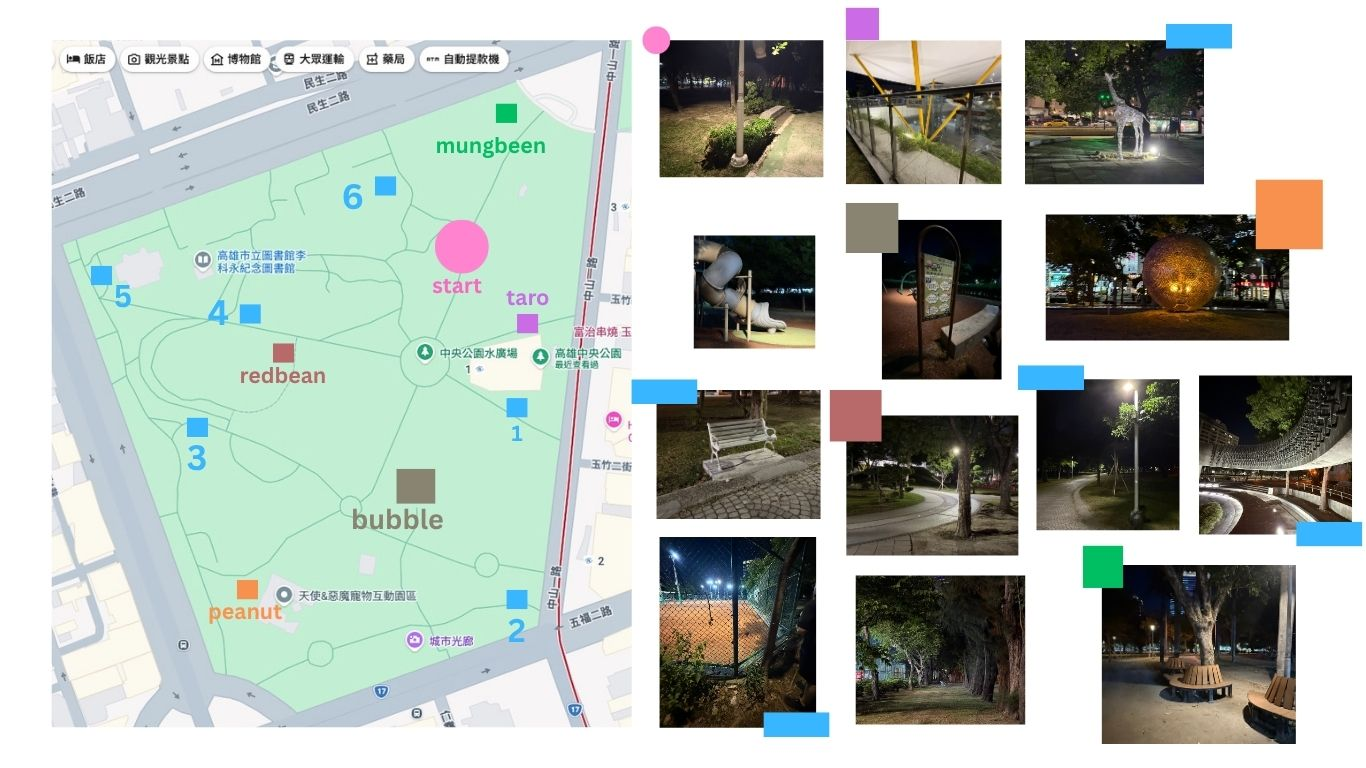
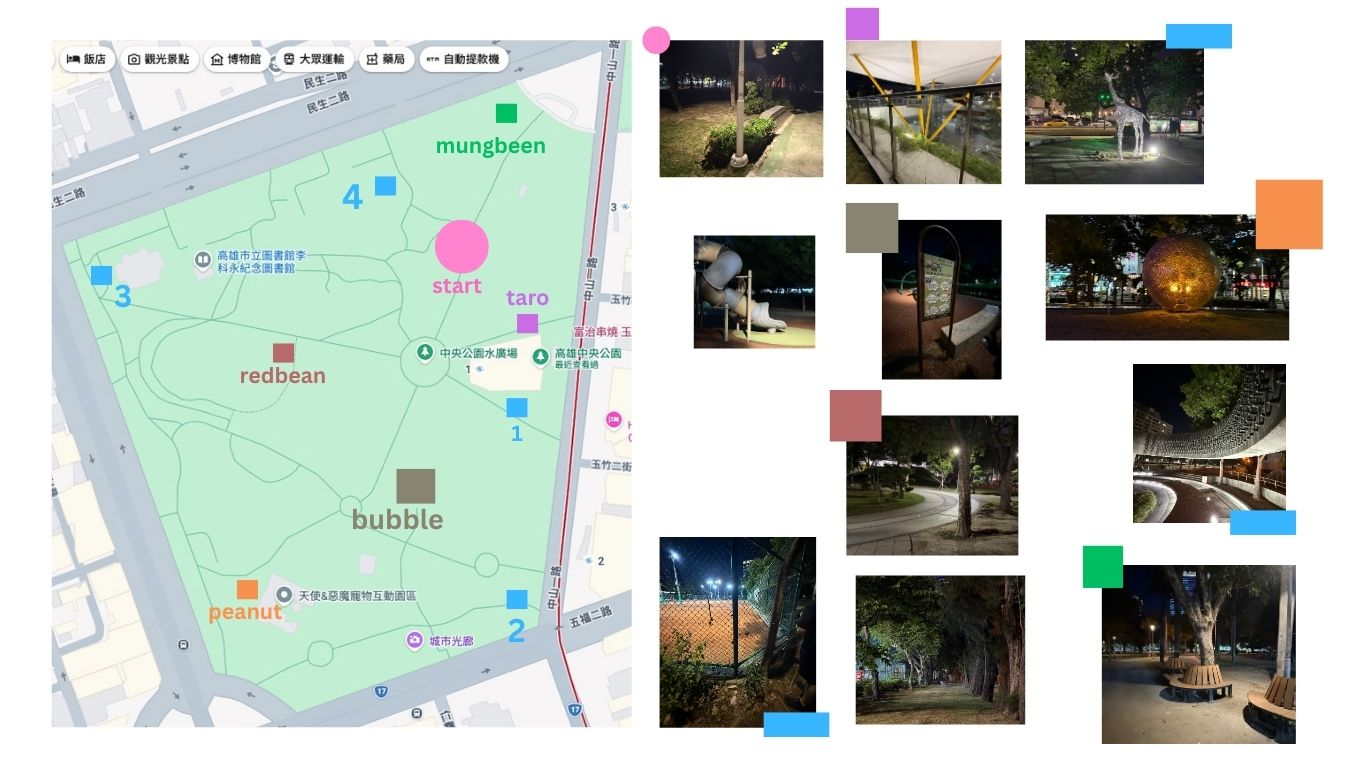
refactor: 白豆花改 4 站，集滿 4 站換 1 顆豆花
移除原 03/04 站點；新 03/04 沿用原 05/06 座標。兌換規則與
LIVE 進度／湯匙改為 4 格；更新 QR、地圖與文案。

diff --git a/src/i18n/messages/zh.ts b/src/i18n/messages/zh.ts
@@ -35,7 +35,7 @@ export const zh = {
     tagline: "一起完成屬於你的一碗豆花。",
     location: "Tofu Run · 高雄中央公園",
     taglineEn: "When the Tofu Pudding is Running ...",
-    closedBeta: "遊戲封測\n{ ~ 豆友試跑 05/28/2026 星期四 7:30 - 8:30 ~ }",
+    closedBeta: "{ ~ 豆友 2nd 試跑 06/05/2026 星期五 7:00 - 8:00 ~ }",
     closedBetaMeetupPrefix: "集合地: ",
     closedBetaMeetupPlaceBefore: "中央公園",
     closedBetaMeetupPlaceExitNo: "1",
@@ -119,8 +119,6 @@ export const zh = {
     "tofu-02": { label: "白豆花 Token 02", zone: "純白豆花底" },
     "tofu-03": { label: "白豆花 Token 03", zone: "純白豆花底" },
     "tofu-04": { label: "白豆花 Token 04", zone: "純白豆花底" },
-    "tofu-05": { label: "白豆花 Token 05", zone: "純白豆花底" },
-    "tofu-06": { label: "白豆花 Token 06", zone: "純白豆花底" },
     redbean: { label: "紅豆 Token", zone: "水池區" },
     mungbean: { label: "綠豆 Token", zone: "樹林區" },
     peanut: { label: "花生 Token", zone: "城市光廊區" },
@@ -160,7 +158,7 @@ export const zh = {
     listCount: "共 {count} 人",
     empty: "還沒有人報名，成為第一碗豆花吧 🥣",
     dateTbd:
-      "開跑日期稍候公佈...\n{ ~ 豆友試跑 05/28/2026 星期四 7:30 - 8:30 ~ }",
+      "開跑日期稍候公佈...\n{ ~ 豆友 2nd 試跑 06/05/2026 星期五 7:00 - 8:00 ~ }",
     logout: "登出護照",
     myPassport: "我的豆花護照",
   },
@@ -222,7 +220,7 @@ export const zh = {
     participants: "進場的人",
     tokenProgress: "Token 進度",
     scanToken: "掃描",
-    scanHint: "對準檢查點 QR（白豆花 tofu-01～06 或配料）",
+    scanHint: "對準檢查點 QR（白豆花 tofu-01～04 或配料）",
     scanClose: "關閉",
     scanInvalidQr: "無法辨識此 QR Code，請對準檢查點",
     scanCameraDenied: "無法開啟相機，請允許相機權限後再試",

diff --git a/src/i18n/messages/en.ts b/src/i18n/messages/en.ts
@@ -38,7 +38,7 @@ export const en: Messages = {
     location: "Tofu Run · Kaohsiung Central Park",
     taglineEn: "When the Tofu Pudding is Running ...",
     closedBeta:
-      "Closed beta\n{ ~ Tofu friends trial run · Thu 5/28/2026 · 7:30–8:30 PM ~ }",
+      "{ ~ Tofu friends 2nd trial run · Fri 6/5/2026 · 7:00–8:00 PM ~ }",
     closedBetaMeetupPrefix: "Meet at: ",
     closedBetaMeetupPlaceBefore: "Central Park Exit ",
     closedBetaMeetupPlaceExitNo: "1",
@@ -127,8 +127,6 @@ export const en: Messages = {
     "tofu-02": { label: "White tofu Token 02", zone: "Plain white tofu base" },
     "tofu-03": { label: "White tofu Token 03", zone: "Plain white tofu base" },
     "tofu-04": { label: "White tofu Token 04", zone: "Plain white tofu base" },
-    "tofu-05": { label: "White tofu Token 05", zone: "Plain white tofu base" },
-    "tofu-06": { label: "White tofu Token 06", zone: "Plain white tofu base" },
     redbean: { label: "Red bean Token", zone: "Pond area" },
     mungbean: { label: "Mung bean Token", zone: "Grove area" },
     peanut: { label: "Peanut Token", zone: "City arcade" },
@@ -169,7 +167,7 @@ export const en: Messages = {
     listCount: "{count} people",
     empty: "No signups yet — be the first bowl 🥣",
     dateTbd:
-      "Run date TBA…\n{ ~ Tofu friends trial run · Thu 5/28/2026 · 7:30–8:30 PM ~ }",
+      "Run date TBA…\n{ ~ Tofu friends 2nd trial run · Fri 6/5/2026 · 7:00–8:00 PM ~ }",
     logout: "Sign out",
     myPassport: "My tofu passport",
   },
@@ -233,7 +231,7 @@ export const en: Messages = {
     tokenProgress: "Token progress",
     scanToken: "Scan",
     scanHint:
-      "Point at a checkpoint QR (white tofu tofu-01…06 or toppings)",
+      "Point at a checkpoint QR (white tofu tofu-01…04 or toppings)",
     scanClose: "Close",
     scanInvalidQr: "Unrecognized QR — use a checkpoint code",
     scanCameraDenied: "Camera blocked — allow camera access and retry",

diff --git a/src/components/LiveParticipantTokenIcons.tsx b/src/components/LiveParticipantTokenIcons.tsx
@@ -123,7 +123,7 @@ function TokenIconCell({
   );
 }
 
-/** LIVE 名單：豆花圖示 + 六格進度（放在 goal 下方） */
+/** LIVE 名單：豆花進度格（站數 = TOFU_PROGRESS_COUNT，集滿一輪換 1 顆豆花） */
 export function LiveTofuProgressRow({
   tokenIds,
   className = "",
@@ -138,7 +138,12 @@ export function LiveTofuProgressRow({
       className={`flex min-w-0 items-center gap-1.5 overflow-visible ${className}`.trim()}
       aria-label="豆花進度"
     >
-      <div className="grid w-full max-w-[5.5rem] shrink-0 grid-cols-6 gap-px">
+      <div
+        className="grid w-full max-w-[4rem] shrink-0 gap-px"
+        style={{
+          gridTemplateColumns: `repeat(${TOFU_PROGRESS_COUNT}, minmax(0, 1fr))`,
+        }}
+      >
         {Array.from({ length: TOFU_PROGRESS_COUNT }, (_, i) => (
           <span
             key={i}
@@ -202,7 +207,10 @@ export function LiveParticipantTokenIcons({
               count={completedTofu}
             />
           ) : currentRoundStations > 0 ? (
-            <div className="flex flex-col items-center justify-center gap-0.5">
+            <div
+              className="flex flex-col items-center justify-center gap-0.5"
+              title={`本輪豆花進度 ${currentRoundStations}/${TOFU_PROGRESS_COUNT}`}
+            >
               <div className="flex h-8 w-11 items-center justify-center">
                 <TokenIcon
                   src="/spoon-64px.png"

diff --git a/public/checkpoint-qr.html b/public/checkpoint-qr.html
@@ -112,9 +112,9 @@
 </head>
 <body>
   <div class="no-print">
-    <h1>Checkpoint QR Code（起點 + 白豆花 6 站 + 5 配料）</h1>
+    <h1>Checkpoint QR Code（起點 + 白豆花 4 站 + 5 配料）</h1>
     <p class="hint">
-      掃碼會開啟 <code>/scan/{token}</code>（含起點 <code>/scan/start</code>）。白豆花需依序掃 <code>tofu-01</code>…<code>tofu-06</code>（各站本輪僅一次）；集滿 6 站 = 1 顆白豆花 Token。正式活動請用正式網域。
+      掃碼會開啟 <code>/scan/{token}</code>（含起點 <code>/scan/start</code>）。白豆花需掃 <code>tofu-01</code>…<code>tofu-04</code>（各站本輪僅一次）；集滿 4 站 = 1 顆白豆花 Token。正式活動請用正式網域。
     </p>
     <div class="base">
       <label>網站根網址
@@ -138,8 +138,6 @@
       { id: "tofu-02", zone: "純白豆花底", label: "白豆花 Token 02" },
       { id: "tofu-03", zone: "純白豆花底", label: "白豆花 Token 03" },
       { id: "tofu-04", zone: "純白豆花底", label: "白豆花 Token 04" },
-      { id: "tofu-05", zone: "純白豆花底", label: "白豆花 Token 05" },
-      { id: "tofu-06", zone: "純白豆花底", label: "白豆花 Token 06" },
     ];
 
     const TOPPINGS = [

diff --git a/src/lib/tofu-progress.ts b/src/lib/tofu-progress.ts
@@ -19,7 +19,7 @@ export function isTofuProgressToken(
   return TOFU_PROGRESS_SET.has(tokenType);
 }
 
-/** 0 = 最左（tofu-01）… 5 = 最右（tofu-06） */
+/** 0 = 最左（tofu-01）… 3 = 最右（tofu-04） */
 export function tofuProgressSlot(tokenType: string): number | null {
   const idx = TOFU_PROGRESS_TOKEN_IDS.indexOf(tokenType as TofuProgressTokenId);
   return idx >= 0 ? idx : null;
@@ -48,8 +48,9 @@ export function countTofuProgressScans(
 }
 
 /**
- * 已換得的豆花 Token 顆數：tofu-01…06 各至少掃 N 次 → 取最小 N。
- * 舊版單一 `tofu` QR 不計入，須改掃六站。
+ * 已換得的豆花 Token 顆數：每輪須掃滿 {@link TOFU_PROGRESS_COUNT} 站（tofu-01…04 各至少 1 次）→ 取各站次數最小值。
+ * 例：4 站各掃 1 次 = 1 顆豆花；集滿後 LIVE 改顯示豆花圖（不再顯示湯匙），下一輪再從 0 格累積。
+ * 舊版單一 `tofu` QR 不計入。
  */
 export function countCompletedTofuSets(earnedTokenIds: string[]): number {
   const perStep = countTofuProgressScans(earnedTokenIds);

diff --git a/src/lib/checkpoint-locations.ts b/src/lib/checkpoint-locations.ts
@@ -13,9 +13,7 @@ export type CheckpointTokenId =
   | "tofu-01"
   | "tofu-02"
   | "tofu-03"
-  | "tofu-04"
-  | "tofu-05"
-  | "tofu-06";
+  | "tofu-04";
 
 /**
  * 高雄中央公園 Token 預設定位座標（WGS84）
@@ -30,10 +28,8 @@ export const CHECKPOINT_LOCATIONS: Record<CheckpointTokenId, CheckpointLocation>
   mungbean: { lat: 22.626694619824104, lng: 120.30100290532549 },
   "tofu-01": { lat: 22.62473875376479, lng: 120.30074541326417 },
   "tofu-02": { lat: 22.62337210678863, lng: 120.300761506518 },
-  "tofu-03": { lat: 22.624402044901476, lng: 120.29835288286108 },
-  "tofu-04": { lat: 22.625258670242776, lng: 120.29835288286108 },
-  "tofu-05": { lat: 22.625684505131392, lng: 120.29762868643863 },
-  "tofu-06": { lat: 22.626075677878315, lng: 120.2992165541501 },
+  "tofu-03": { lat: 22.625684505131392, lng: 120.29762868643863 },
+  "tofu-04": { lat: 22.626075677878315, lng: 120.2992165541501 },
 };
 
 export function getCheckpointLocation(

diff --git a/src/lib/constants.ts b/src/lib/constants.ts
@@ -78,17 +78,15 @@ export function formatDouhuaGoal(
 
 export type TofuTypeId = (typeof TOFU_TYPES)[number]["id"];
 
-/** 全員必掃的起點 Token（邏輯用；實際掃描為 tofu-01…06） */
+/** 全員必掃的起點 Token（邏輯用；實際掃描為 tofu-01…04） */
 export const BASE_TOFU_TOKEN_ID = "tofu" as const;
 
-/** 豆花起點 6 站 QR，集滿一輪 = 1 顆豆花 Token */
+/** 豆花起點 4 站 QR，集滿一輪 = 1 顆豆花 Token */
 export const TOFU_PROGRESS_TOKEN_IDS = [
   "tofu-01",
   "tofu-02",
   "tofu-03",
   "tofu-04",
-  "tofu-05",
-  "tofu-06",
 ] as const;
 
 export type TofuProgressTokenId = (typeof TOFU_PROGRESS_TOKEN_IDS)[number];
@@ -140,7 +138,7 @@ const TOPPING_CHECKPOINTS = [
   },
 ] as const;
 
-/** 護照／路線顯示 + 掃描站定義（含 6 站豆花 QR） */
+/** 護照／路線顯示 + 掃描站定義（含 4 站豆花 QR） */
 export const TOKEN_TYPES = [
   {
     id: BASE_TOFU_TOKEN_ID,

diff --git a/src/lib/ground-completion.ts b/src/lib/ground-completion.ts
@@ -29,7 +29,7 @@ function effectiveCountForRequired(
   return toppingCounts.get(requiredId) ?? 0;
 }
 
-/** 集齊豆花（六站一輪）+ 個人配料後視為完成 */
+/** 集齊豆花（四站一輪）+ 個人配料後視為完成 */
 export function computeGroundCompletion(
   requiredIds: string[],
   earned: Record<string, string | null>
@@ -60,7 +60,7 @@ export function routeMeetsCompletion(
   return countCompletedBowls(requiredIds, earnedTokenIds) >= 1;
 }
 
-/** 已完成幾碗：須先有一顆豆花 Token（六站一輪），再與各配料次數取最小 */
+/** 已完成幾碗：須先有一顆豆花 Token（四站一輪），再與各配料次數取最小 */
 export function countCompletedBowls(
   requiredIds: string[],
   earnedTokenIds: string[]

diff --git a/src/lib/scan-rules.ts b/src/lib/scan-rules.ts
@@ -59,7 +59,7 @@ function validateTofuProgressScan(
 
 /**
  * 掃描防刷規則（回傳中文錯誤訊息；通過則回傳 null）
- * - 豆花：tofu-01…06 各站本輪僅能掃一次；可連續掃不同站
+ * - 豆花：tofu-01…04 各站本輪僅能掃一次；可連續掃不同站
  * - 配料：同一種 1 分鐘內不可重掃
  */
 export function validateScanRules(
@@ -74,7 +74,7 @@ export function validateScanRules(
   }
 
   if (isLegacyTofuScan(nextTokenType)) {
-    return "請改掃豆花起點 QR（tofu-01 至 tofu-06）";
+    return "請改掃豆花起點 QR（tofu-01 至 tofu-04）";
   }
 
   if (isTofuProgressToken(nextTokenType)) {

diff --git a/src/i18n/api-errors.ts b/src/i18n/api-errors.ts
@@ -141,8 +141,8 @@ export function localizeErrorMessage(
     return `You already scanned tofu station ${tofuStation[1]} this round!`;
   }
 
-  if (message.includes("tofu-01 至 tofu-06")) {
-    return "Please scan the tofu checkpoints (tofu-01 through tofu-06)";
+  if (message.includes("tofu-01 至 tofu-04")) {
+    return "Please scan the tofu checkpoints (tofu-01 through tofu-04)";
   }
 
   const toppingCooldown =

diff --git a/src/components/ParkMap.tsx b/src/components/ParkMap.tsx
@@ -20,8 +20,6 @@ const PIN_POSITIONS: Record<TokenTypeId, string> = {
   "tofu-02": TOFU_PIN,
   "tofu-03": TOFU_PIN,
   "tofu-04": TOFU_PIN,
-  "tofu-05": TOFU_PIN,
-  "tofu-06": TOFU_PIN,
   redbean: "left-[12%] top-[11%]",
   mungbean: "right-[4%] top-[7%]",
   peanut: "left-[8%] bottom-[14%]",

diff --git a/supabase/tofu_progress_tokens.md b/supabase/tofu_progress_tokens.md
@@ -1,17 +1,23 @@
-# 豆花六站 Token（tofu-01 … tofu-06）
+# 豆花四站 Token（tofu-01 … tofu-04）
 
-## 行為
+## 規則
 
-- 路線上的邏輯 Token 仍為 `tofu`（報名目標、護照顯示）。
-- 現場掃描寫入 `tokens.token_type` 為 `tofu-01` … `tofu-06`。
-- 同一輪內同一站不可重掃；可連續掃不同站（例如 01 再 02）。
-- 六站各掃滿一輪 → 計為 1 顆豆花，再與配料次數取最小值得「完成碗數」。
+- 現場掃描寫入 `tokens.token_type` 為 `tofu-01` … `tofu-04`。
+- 各站本輪僅能掃一次；可連續掃不同站。
+- 四站各掃滿一輪 → 計為 1 顆豆花，再與配料次數取最小值得「完成碗數」。
 
-## 資料庫
+## 座標（2026-06 調整）
 
-- `tokens.token_type` 為 `text`，**無需** enum migration。
-- 舊資料若為單一 `tofu` 類型，不會自動對應六站；新活動請改用六張 QR。
+- `tofu-01`、`tofu-02`：位置不變。
+- `tofu-03`：沿用原 `tofu-05` 座標。
+- `tofu-04`：沿用原 `tofu-06` 座標。
+- 原 `tofu-03`、`tofu-04` 站點與 QR 已移除。
 
-## QR
+## 舊資料
 
-列印頁：`/checkpoint-qr.html`（6 站豆花 + 5 配料）。
+- 舊資料若為單一 `tofu` 類型，不會自動對應四站；新活動請改用四張 QR。
+- 資料庫中若仍有 `tofu-05`、`tofu-06` 掃描紀錄，仍會保留但不列入新一輪進度。
+
+## 列印
+
+列印頁：`/checkpoint-qr.html`（4 站豆花 + 5 配料）。
